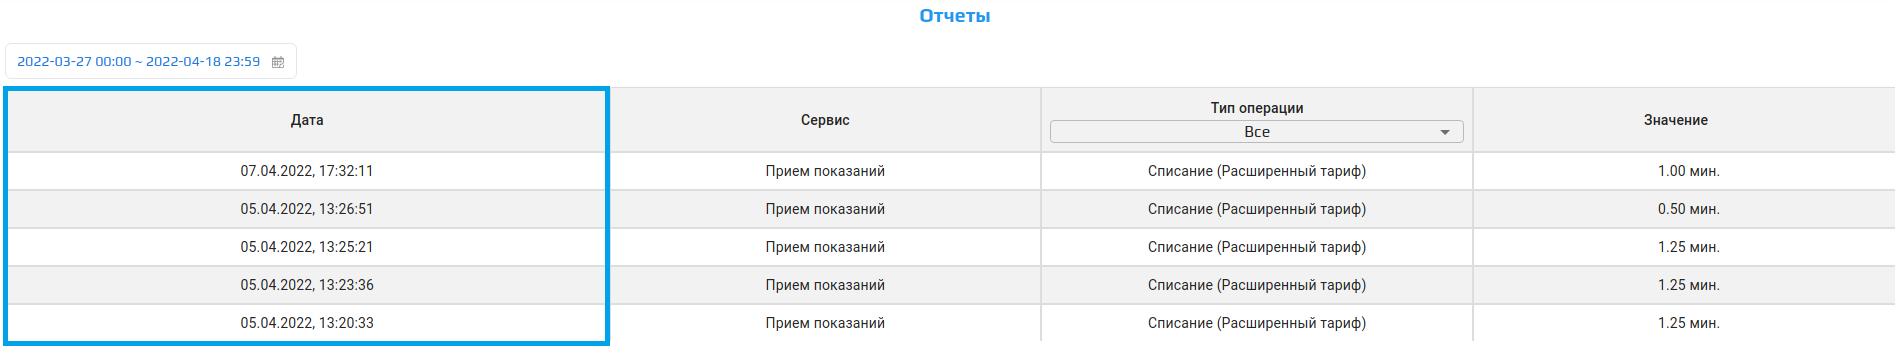
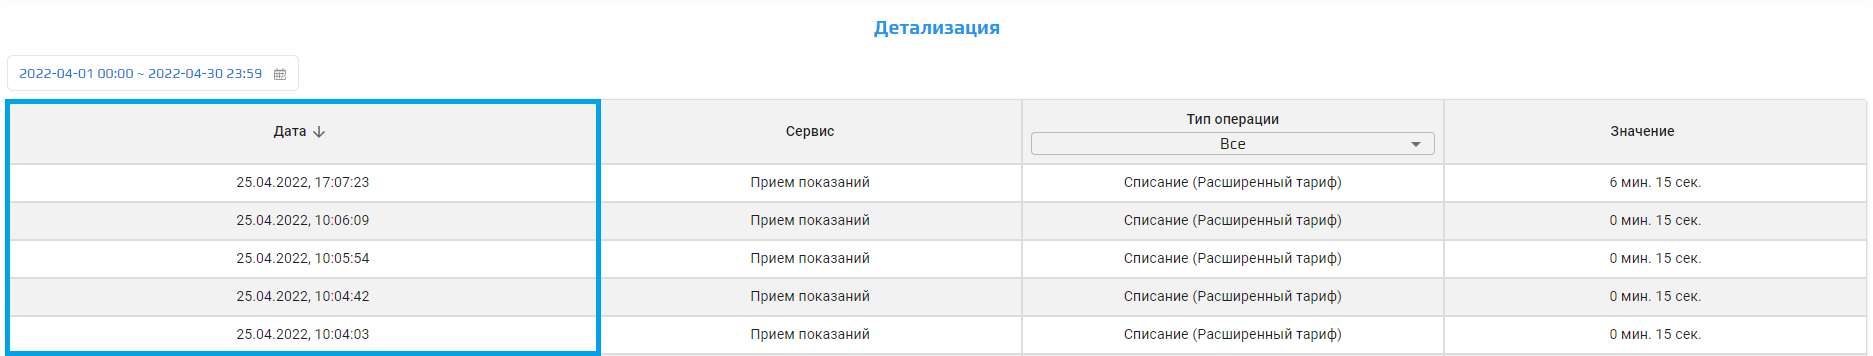
desc

diff --git a/content/03-ver.1.8/2-work_with_product_meters/08-settings_apps.md b/content/03-ver.1.8/2-work_with_product_meters/08-settings_apps.md
@@ -1,27 +1,25 @@
 ---
 slug: "/post115"
-title: "Вкладка Настройки ППС в Личном кабинете"
+title: "Модальное окно Настройки ППС в Личном кабинете"
 sort: "08"
 ---
 
-**Прием показаний** - модуль платформы Kloud.One, отвечающий за автоматическое обновление данных показаний счетчиков, выгруженных из 1С или вручную.
+### Модальное окно Настройки ППС 
 
-![Картинка](./images/settings_apps_main.png "Окно Настройки приёма показаний")
+### Поле Интеграция с 1С: ЖКХ
 
-### Поле Интеграция с 1С ЖКХ
-
-При выключенном флажке поля **Интеграция с 1С ЖКХ** экспорт и импорт баз производится в ручном режиме.
+При выключенном флажке поля **Интеграция с 1С: ЖКХ** экспорт и импорт баз производится в ручном режиме.
 
 ![Картинка](./images/settings_integration_no.png "Окно Настройки приёма показаний")
 
-При включении флажка можно увидеть поля с настройками подключения 1С ЖКХ. Эти данные используются для подключения 1С и работе с базами.
+При включении флажка можно увидеть поля с настройками подключения 1С: ЖКХ. Эти данные используются для подключения 1С и работе с базами.
 
 ![Картинка](./images/settings_integration_yes.png "Окно Настройки приёма показаний")
 
 ### Поле Часовой пояс
 
-Поле Часовой пояс отвечает за время начала приёма показаний в тех случаях, если в поле **Расписание работы** выбран параметр "По расписанию". При изменении часового пояса, время начала приема показаний ставится по тому часовому поясу, который выбран в настройках.  
-🛈 Параметр связан с **Расписанием работы** автообзвона в модуле **ППС**.  
+Поле Часовой пояс отвечает за время начала приёма показаний в тех случаях, если в поле **Расписание работы** выбран параметр "По расписанию". При изменении часового пояса, время начала приема показаний ставится по тому часовому поясу, который выбран в настройках. 
+
 🛈 После регистрации нового клиента этот параметр по умолчанию равен **GMT+03.00 Москва**.
 
 ![Картинка](./images/settings_ad_time_zone.png "Поле Часовой пояс")
@@ -30,7 +28,7 @@ sort: "08"
 ### Приветствие
 
 В этом поле указывается фраза, с которой начинается диалог с абонентом.  
-🛈 Имеется кнопка , чтобы прослушать, как будет звучать сообщение, учитывая выбранный **Голос автоответчика**.  
+🛈 Имеется кнопка, чтобы прослушать, как будет звучать сообщение, учитывая выбранный **Голос автоответчика**.  
 Например: "Здравствуйте, вы позвонили в ООО Газпром".
 
 ![Картинка](./images/settings_apps_first_phrase.png "Поле Приветствие")
@@ -61,9 +59,9 @@ sort: "08"
 
 Информационное сообщение появляется при:  
 1.  Если система не распознала номер лицевого счета.  
-2.  Отсутствия данных от абонентов (Тишина).  
-3.  Вводе лицевого счета, которого нет в базе данных площадки Kloud.One.  
-4.  Вводе лицевого счета, по которому нет приборов учета в базе данных площадки Kloud.One.
+2.  Отсутствия данных от абонентов (тишина).  
+3.  Вводе лицевого счета, которого нет в базе данных платформы Kloud.One.  
+4.  Вводе лицевого счета, по которому нет приборов учета в базе данных платформы Kloud.One.
 
 ![Картинка](./images/settings_apps_info_message.png "Поле Информационное сообщение")
 
@@ -89,13 +87,13 @@ sort: "08"
 
 ![Картинка](./images/settings_apps_enter_data_picker_voice.png "Поле Способ ввода данных")
 
-Состоит из трех вариантов:  **Голосом**, **DTMF** и **голосом+DTMF**.  
-При выборе **Голосом**, данные получаем из распознанных фраз абонента. ( Поля **Просьба ввода лицевого счёта** и  **Просьба ввода показаний счётчика** изменяются при смене с DTMF).  
-При выборе **DTMF**, данные получаем из ввода клавиш телефона абонента ( Поля **Просьба ввода лицевого счёта** и  **Просьба ввода показаний счётчика** изменяются при смене с Голосом).
+Состоит из трех вариантов:  **голосом**, **DTMF** и **голосом+DTMF**.  
+При выборе **голосом**, данные получаем из распознанных фраз абонента. (Поля **Просьба ввода лицевого счёта** и  **Просьба ввода показаний счётчика** изменяются при смене с **DTMF**).  
+При выборе **DTMF**, данные получаем из ввода клавиш телефона абонента (Поля **Просьба ввода лицевого счёта** и  **Просьба ввода показаний счётчика** изменяются при смене с **голосом**).
 
 ![Картинка](./images/settings_apps_enter_data_picker_dtmf.png "Выбрали DTMF")
 
-При выборе **Голосом+DTMF**, перед началом приема показаний абонент услышит фразу: "Для того чтобы ввести показания голосом скажите "Да", чтобы ввести показания DTMF нажмите на клавишу 1".  
+При выборе **Голосом+DTMF** перед началом приема показаний абонент услышит фразу: "Для того чтобы ввести показания голосом скажите "Да", чтобы ввести показания DTMF нажмите на клавишу 1".  
 Если абонент скажет "Да", тогда сценарий приема показаний изменится на выбор способа ввода данных - **Голосом**.  
 Если абонент скажет "Нет" или нажмет клавишу телефона "1", тогда сценарий приема показаний изменится на выбор способа ввода данных - **DTMF**.  
 (Поля **Просьба ввода лицевого счёта** и  **Просьба ввода показаний счётчика** перестают быть динамическими, изменения в полях не будут влиять на фразы, которые услышит абонент)
@@ -113,11 +111,11 @@ sort: "08"
 
 ### Включить привязку лицевых счетов к номеру телефона
 
-Этот флажок отвечает за привязку лицевого счета к номеру телефона. После первого приема показаний, при включенном флажке, номер телефона сохраняется в БД с привязкой лицевого счета.
+Этот флажок отвечает за привязку лицевого счета к номеру телефона. После первого приема показаний, при включенном флажке, номер телефона сохраняется в базе данных с привязкой лицевого счета.
 
 ![Картинка](./images/settings_apps_checkbox_chain_number.png "Флажок Включить привязку лицевых счетов к номеру телефона")
 
-При следующем звонке для приема показаний, после приветствия абонент услышит фразу: "Для того, чтобы оставить показания по лицевому счету **номер л/c**  скажите/нажмите **n**. Для ввода нового лицевого счёта скажите 0".  
+При следующем звонке для приема показаний, после приветствия, абонент услышит фразу: "Для того, чтобы оставить показания по лицевому счету **номер л/c**  скажите/нажмите **n**. Для ввода нового лицевого счёта скажите 0".  
 Если абонент скажет/нажмет **n**, то он перейдет на **Просьбу ввода показаний**, пропуская ввод лицевого счета.  
 Если абонент скажет/нажмет **0**, то он перейдет на **Просьбу ввода лицевого счета** (Как при выключенном флажке **Включить привязку лицевых счетов к номеру телефона**).  
 🛈 Если абонент имеет несколько привязанных лицевых счетов, после приема показаний первого, он услышит фразу: "Для того, чтобы оставить показания по лицевому счету **номер л/c** (Произносятся л/c, привязанные к номеру телефона и по которым ещё не было приема показания) скажите/нажмите **n**. Для завершения скажите/нажмите **нет**.
@@ -138,8 +136,8 @@ sort: "08"
 
 ### Включить запись
 
-При включении флажка, при **Приеме показаний**, автоответчик будет записывать разговор с момента поднятия трубки абонента и до сброса трубки роботом/абонентом. Также можно прослушать записи звонка в **Журнале звонков**.  
-🛈 При включенном флажке будет произнесена фраза: "Внимание для улучшения работы сервиса разговор может быть записан".  
+При включении флажка автоответчик будет записывать разговор с момента поднятия трубки абонента и до сброса трубки роботом/абонентом. Также можно прослушать записи звонка в **Журнале звонков**.  
+🛈 При включенном флажке будет произнесена фраза: "Внимание, для улучшения работы сервиса разговор может быть записан".  
 
 ![Картинка](./images/settings_apps_checkbox_record.png "Поле Включить запись")
 
@@ -152,7 +150,7 @@ sort: "08"
 ### Сбросить настройки
 
 После нажатия на кнопку **Сбросить настройки** и после **Сохранить** настройки **Приема показаний** сбрасываются до стандартных.  
-🛈 Если после нажатия на **Сбросить настройки** не нажать на кнопку **Сохранить**, настройки Приема показаний не изменятся.
+🛈 Если после нажатия на **Сбросить настройки** не нажать на кнопку **Сохранить**, настройки **Приема показаний** не изменятся.
 
 ![Картинка](./images/settings_apps_reset_settings.png "Кнопка Сбросить настройки")
 

diff --git a/content/03-ver.1.8/2-work_with_product_meters/04-profile.md b/content/03-ver.1.8/2-work_with_product_meters/04-profile.md
@@ -66,26 +66,25 @@ sort: "04"
 
 Поле **Ключ лицензии** предназначено для ввода буквенно-цифрового кода, при активации которого пополняется баланс минут.
 🛈 Для активации лицензионного ключа необходимо нажать **АКТИВИРОВАТЬ КЛЮЧ**.
-🛈 По ссылке **Приобрести лицензионный ключ** можно перейти на сайт платформы kloud.one и приобрести подходящий пакет лицензий.
+🛈 По ссылке **Приобрести лицензионный ключ** можно перейти на сайт платформы Kloud.One и приобрести подходящий пакет лицензий.
 
 ![Картинка](./images/profile_licence.png "Кнопка сохранения")
 
 ## Изменение имени пользователя:
 
-Поле **Изменение имени пользователя** предназначено для изменения имени пользователя, указанного при регистрации в сервисе Trusted.ID. Имя пользователя изменится только в приложениях ППС, ОД, ПЗ.
+Поле **Изменение имени пользователя** предназначено для изменения в личном кабинете имени пользователя, указанного при регистрации в сервисе Trusted.ID. Имя пользователя изменится только в приложениях ППС, ОД, ПЗ.
 
 ![Картинка](./images/profile_name.png "Кнопка сохранения")
 
 ## Новый пароль:
 
-Поле для ввода нового пароля.
+Поле для ввода нового пароля. **Пароль будет использоваться для интеграции с 1С**. Это не пароль для входа в личный кабинет Kloud.One.
 
 ![Картинка](./images/profile_new_pass.png "Поле Новый пароль")
 
 ## Подтверждение:
 
 Поле дублирует поле **Новый пароль** для подтверждения нового пароля. Для завершения смены пароля нажмите на кнопку **Сохранить**.
-После успешной смены пароля откроется модальное окно **Профиль успешно обновлен**, нажмите **ОК** для закрытия модального окна.
 
 ![Картинка](./images/profile_confirm_pass.png "Поле Подтверждение")
 
@@ -94,6 +93,8 @@ sort: "04"
 Сохраняет новый пароль, если поля **Новый пароль** и **Подтверждение** совпадают.
 
 ![Картинка](./images/profile_butt_save.png "Кнопка Сохранить")
+
+После успешной смены пароля откроется модальное окно **SIP-профиль обновлен**, нажмите **ОК** для закрытия модального окна.
 
 ![Картинка](./images/profile_form_confirm.png "Модальное окно Профиль успешно обновлен")
 

diff --git a/content/03-ver.1.8/2-work_with_product_meters/06-call_log.md b/content/03-ver.1.8/2-work_with_product_meters/06-call_log.md
@@ -6,7 +6,7 @@ sort: "06"
 
 ## Таблица Журнал звонков содержит:
 
-Вкладка **Журнал Звонков** представляет собой таблицу **Журнала Звонков**, в которой отображаются данные о звонках: 
+Вкладка **Журнал Звонков** представляет собой таблицу, в которой отображаются данные о звонках: 
 - Дата, 
 - Телефон,
 - Данные, 
@@ -52,7 +52,7 @@ sort: "06"
 * "Отвечен: абонент положил трубку" - когда звонок был принят, но клиент положил трубку раньше, чем закончился сценарий звонка.
 3. Выбрав **Отменен**, отображается статус "Отменен" и дополнительная информация присваивается в следующих ситуациях:
 * "Отменен: абонент не взял трубку"- когда звонок состоялся,  но абонент сбросил звонок.  
-* "Отменен: нулевой баланс сервиса"- когда по запущенному сервису нулевой баланс и требуется оплата.
+* "Отменен: нулевой баланс сервиса"- когда в приложении нулевой баланс и требуется оплата.
 4. Выбрав **Ошибка**, отображается статус "Ошибка" и дополнительная информация присваивается в следующих ситуациях:
 * "Ошибка: проблема с SIP-аккаунтом" возникает, когда некорректно введены данные в одно из полей "Логин SIP", "Пароль SIP", или "адрес SIP-сервера".
 
@@ -107,7 +107,7 @@ sort: "06"
 
 ![Картинка](./images/call_log_butt_export.png "Кнопка Экспорт кеша")
 
-Формат экспортируемый таблицы:
+Формат экспортируемой таблицы:
 
 | Дата, время            | Телефон     | Статус    | Данные           | Длительность  | Результат
 | ---------------------- | ----------- | -------------------- | --------- | ------           | ------------- |
@@ -140,7 +140,7 @@ sort: "06"
 ### Строк на странице и выпадающий список
 
 Настройка **Строк на странице** отображает количество строк в таблице, из выпадающего списка можем выбрать одно из несколько значений: 10, 20, 50, 100, 500.  
-🛈 Этот параметр связан с **параметром Страницы.**, чем больше строк на странице, тем меньше отображается страниц в таблице.
+🛈 Этот параметр связан с **параметром Страницы**, чем больше строк на странице, тем меньше отображается страниц в таблице.
 
 ![Картинка](./images/call_log_selector_rows_page.png "Настройка Строк на странице")
 

diff --git a/content/03-ver.1.8/2-work_with_product_meters/05-reports_meters.md b/content/03-ver.1.8/2-work_with_product_meters/05-reports_meters.md
@@ -4,7 +4,7 @@ title: "Раздел Детализация"
 sort: "05"
 ---
 
-Раздел **Детализация** представляет собой **Отчеты**. Этот раздел содержит таблицу со следующими данными:  
+Раздел **Детализация** представляет собой отчеты по расходам. Этот раздел содержит таблицу со следующими данными:  
 1. Дата;  
 2. Сервис;  
 3. Тип операции;  
@@ -46,7 +46,8 @@ HH:mm:ss – время: часы-минуты-секунды.
 
 #### Значение
 
-Последний раздел таблицы **Значение** демонстрирует количество потраченных минут при приеме показаний. В данный момент значение в отчете формируется в долях от минуты, а не в минутах и секундах. То есть, если в отчете имеется значение 1,75 мин, это значит, что звонок длился 1 минут 45 секунд.
+Последний раздел таблицы **Значение** демонстрирует количество потраченных минут и секунд при приеме показаний. Подсчет длительности телефонного соединения осуществляется в секундах с округлением на отрезки, кратные 15 сек.
+
 
 ![Картинка](./images/reports_unit_time.png "Значение в отчетной таблице")
 

diff --git a/content/03-ver.1.8/2-work_with_product_meters/09-platform_apps.md b/content/03-ver.1.8/2-work_with_product_meters/09-platform_apps.md
@@ -3,7 +3,7 @@ slug: "/post115"
 title: "Иконка Переход к приложениям платформы Kloud.One в Личном кабинете"
 sort: "09"
 ---
-## Переход к приложениям платформы Kloud.One в Личном кабинете
+## Переход к приложениям платформы Kloud.One
 
 ### Иконка Переход к приложениям платформы Kloud.One в Личном кабинете
 
@@ -11,8 +11,8 @@ sort: "09"
 
 Иконка для перехода в другие приложения платформы Kloud.One (**Подтверждение заказов**, **Обзвон должников**, **Идентификация по телефону**) расположена в правой верхней части личного кабинета.
 
-Иконка при нажатии на нее представляет собой выпадающий список модулей платформы Kloud.One.
+Иконка при нажатии на нее представляет собой выпадающий список приложений платформы Kloud.One.
 
 ![Картинка](./images/platform_apps_2.png "Иконка Переход к приложениям платформы Kloud.One в Личном кабинете")
 
-При выборе одного из модулей открывается личный кабинет выбранного приложения.
+При выборе одного из приложений открывается личный кабинет данного приложения.

diff --git a/content/03-ver.1.8/2-work_with_product_meters/07-common_settings.md b/content/03-ver.1.8/2-work_with_product_meters/07-common_settings.md
@@ -6,8 +6,8 @@ sort: "07"
 
 При нажатии на иконку **Настройки** открывается модальное окно, в котором находятся настройки фраз сценария и параметры сценария модуля ППС.
 
-В модуле настройки **Приема показаний** пользователь может:  
-- включить интеграцию с 1С ЖКХ;
+В модуле настройки **Приема показаний** пользователь может:    
+- включить интеграцию с 1С: Учет в управляющих компаниях ЖКХ;
 - выбрать часовой пояс для правильного начала приема показаний;   
 - изменить просьбу автоответчика о вводе лицевого счета;  
 - изменить просьбу автоответчика о вводе показаний счетчика;  
@@ -19,5 +19,5 @@ sort: "07"
 - включить/выключить запись звонка для возможности прослушать её в "Журнале звонков";  
 - возможность сбросить все настройки **Приема показаний** до первоначальных.  
 
-![Картинка](./images/common_settings_main.png "Выпадающий список модулей АД и АППС")
+![Картинка](./images/common_settings_main.png "Иконка Настройки")
 

diff --git a/content/03-ver.1.8/2-work_with_product_meters/03-infoboard.md b/content/03-ver.1.8/2-work_with_product_meters/03-infoboard.md
@@ -6,6 +6,6 @@ sort: "03"
 
 #### Инфопанель
 
-Раздел представляет собой панель, в которой отображаются: текущий остаток баланса приложения **ППС** в минутах, а также наименование тарифа и имя пользователя. Помимо этого, в инфопанели можно перейти к разделам **Профиль** и **Детализация**.
+Раздел представляет собой панель, в которой отображаются: текущий остаток баланса приложения **ППС**, а также наименование тарифа и имя пользователя. Помимо этого, в инфопанели можно перейти к разделам **Профиль** и **Детализация**.
 
 ![Картинка](./images/balance_keys_main.png "Инфопанель по модулю ППС")

diff --git a/content/03-ver.1.8/2-work_with_product_meters/10-dialogue_script_APPS.md b/content/03-ver.1.8/2-work_with_product_meters/10-dialogue_script_APPS.md
@@ -1,10 +1,10 @@
 ---
 slug: "/post116"
-title: "Сценарии диалогов модулей ППС"
+title: "Сценарии диалогов приложения ППС"
 sort: "10"
 ---
 
-## Модуль ППС (Прием показаний счетчиков)
+## Приложение ППС (Прием показаний счетчиков)
 
 ### Сценарий приёма показаний используя DTMF (нажатие на клавиатуру телефона)
 
